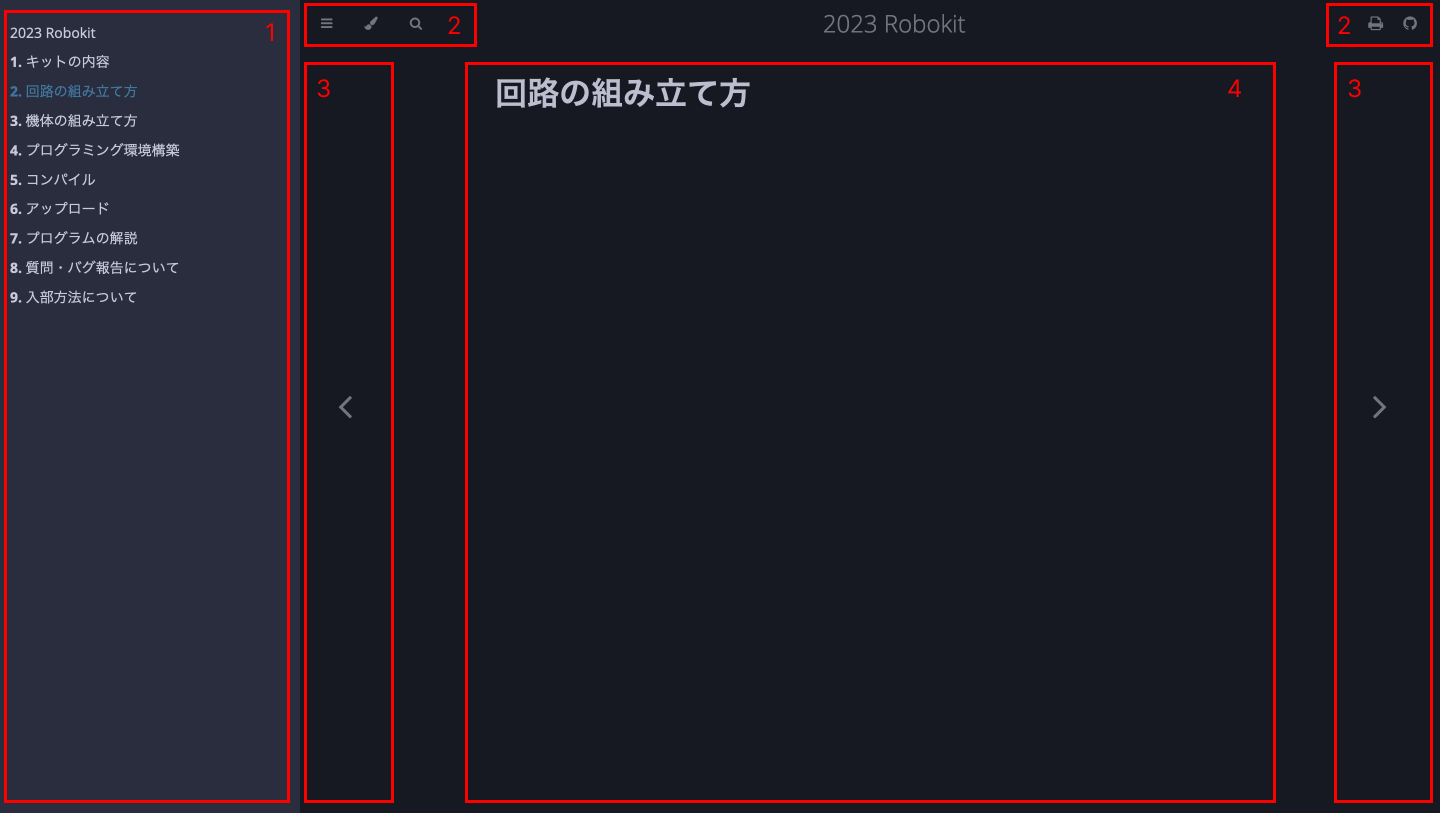
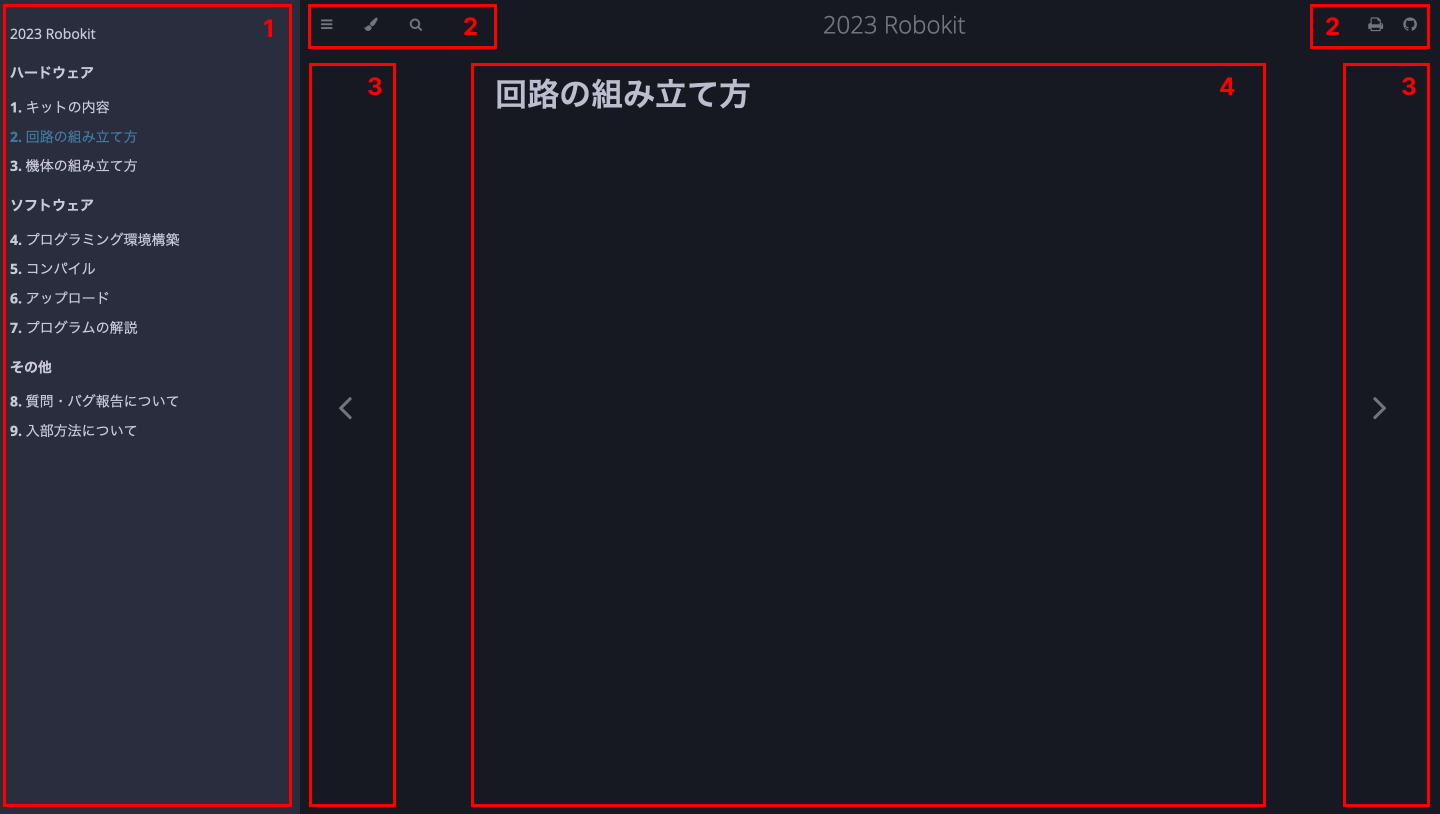
deploy: 9dc91f0afebf8294028ba9710b55e7cff26690c5

Changed region(s): [[0.0, 0.0, 0.875, 1.0], [0.8438, 0.0, 1.0, 1.0], [0.5938, 0.0, 0.625, 0.0308]]

diff --git a/00-title-page.html b/00-title-page.html
@@ -85,7 +85,7 @@
 
         <nav id="sidebar" class="sidebar" aria-label="Table of contents">
             <div class="sidebar-scrollbox">
-                <ol class="chapter"><li class="chapter-item expanded affix "><a href="00-title-page.html" class="active">2023 Robokit</a></li><li class="chapter-item expanded "><a href="01-kit-contents.html"><strong aria-hidden="true">1.</strong> キットの内容</a></li><li class="chapter-item expanded "><a href="02-construct-circuit.html"><strong aria-hidden="true">2.</strong> 回路の組み立て方</a></li><li class="chapter-item expanded "><a href="03-construct-machine.html"><strong aria-hidden="true">3.</strong> 機体の組み立て方</a></li><li class="chapter-item expanded "><a href="04-environment-setup.html"><strong aria-hidden="true">4.</strong> プログラミング環境構築</a></li><li class="chapter-item expanded "><a href="05-compile.html"><strong aria-hidden="true">5.</strong> コンパイル</a></li><li class="chapter-item expanded "><a href="06-upload.html"><strong aria-hidden="true">6.</strong> アップロード</a></li><li class="chapter-item expanded "><a href="07-program-expl.html"><strong aria-hidden="true">7.</strong> プログラムの解説</a></li><li class="chapter-item expanded "><a href="08-contributing.html"><strong aria-hidden="true">8.</strong> 質問・バグ報告について</a></li><li class="chapter-item expanded "><a href="09-joining.html"><strong aria-hidden="true">9.</strong> 入部方法について</a></li></ol>
+                <ol class="chapter"><li class="chapter-item expanded affix "><a href="00-title-page.html" class="active">2023 Robokit</a></li><li class="chapter-item expanded affix "><li class="part-title">ハードウェア</li><li class="chapter-item expanded "><a href="01-kit-contents.html"><strong aria-hidden="true">1.</strong> キットの内容</a></li><li class="chapter-item expanded "><a href="02-construct-circuit.html"><strong aria-hidden="true">2.</strong> 回路の組み立て方</a></li><li class="chapter-item expanded "><a href="03-construct-machine.html"><strong aria-hidden="true">3.</strong> 機体の組み立て方</a></li><li class="chapter-item expanded affix "><li class="part-title">ソフトウェア</li><li class="chapter-item expanded "><a href="04-environment-setup.html"><strong aria-hidden="true">4.</strong> プログラミング環境構築</a></li><li class="chapter-item expanded "><a href="05-compile.html"><strong aria-hidden="true">5.</strong> コンパイル</a></li><li class="chapter-item expanded "><a href="06-upload.html"><strong aria-hidden="true">6.</strong> アップロード</a></li><li class="chapter-item expanded "><a href="07-program-expl.html"><strong aria-hidden="true">7.</strong> プログラムの解説</a></li><li class="chapter-item expanded affix "><li class="part-title">その他</li><li class="chapter-item expanded "><a href="08-contributing.html"><strong aria-hidden="true">8.</strong> 質問・バグ報告について</a></li><li class="chapter-item expanded "><a href="09-joining.html"><strong aria-hidden="true">9.</strong> 入部方法について</a></li></ol>
             </div>
             <div id="sidebar-resize-handle" class="sidebar-resize-handle"></div>
         </nav>

diff --git a/01-kit-contents.html b/01-kit-contents.html
@@ -85,7 +85,7 @@
 
         <nav id="sidebar" class="sidebar" aria-label="Table of contents">
             <div class="sidebar-scrollbox">
-                <ol class="chapter"><li class="chapter-item expanded affix "><a href="00-title-page.html">2023 Robokit</a></li><li class="chapter-item expanded "><a href="01-kit-contents.html" class="active"><strong aria-hidden="true">1.</strong> キットの内容</a></li><li class="chapter-item expanded "><a href="02-construct-circuit.html"><strong aria-hidden="true">2.</strong> 回路の組み立て方</a></li><li class="chapter-item expanded "><a href="03-construct-machine.html"><strong aria-hidden="true">3.</strong> 機体の組み立て方</a></li><li class="chapter-item expanded "><a href="04-environment-setup.html"><strong aria-hidden="true">4.</strong> プログラミング環境構築</a></li><li class="chapter-item expanded "><a href="05-compile.html"><strong aria-hidden="true">5.</strong> コンパイル</a></li><li class="chapter-item expanded "><a href="06-upload.html"><strong aria-hidden="true">6.</strong> アップロード</a></li><li class="chapter-item expanded "><a href="07-program-expl.html"><strong aria-hidden="true">7.</strong> プログラムの解説</a></li><li class="chapter-item expanded "><a href="08-contributing.html"><strong aria-hidden="true">8.</strong> 質問・バグ報告について</a></li><li class="chapter-item expanded "><a href="09-joining.html"><strong aria-hidden="true">9.</strong> 入部方法について</a></li></ol>
+                <ol class="chapter"><li class="chapter-item expanded affix "><a href="00-title-page.html">2023 Robokit</a></li><li class="chapter-item expanded affix "><li class="part-title">ハードウェア</li><li class="chapter-item expanded "><a href="01-kit-contents.html" class="active"><strong aria-hidden="true">1.</strong> キットの内容</a></li><li class="chapter-item expanded "><a href="02-construct-circuit.html"><strong aria-hidden="true">2.</strong> 回路の組み立て方</a></li><li class="chapter-item expanded "><a href="03-construct-machine.html"><strong aria-hidden="true">3.</strong> 機体の組み立て方</a></li><li class="chapter-item expanded affix "><li class="part-title">ソフトウェア</li><li class="chapter-item expanded "><a href="04-environment-setup.html"><strong aria-hidden="true">4.</strong> プログラミング環境構築</a></li><li class="chapter-item expanded "><a href="05-compile.html"><strong aria-hidden="true">5.</strong> コンパイル</a></li><li class="chapter-item expanded "><a href="06-upload.html"><strong aria-hidden="true">6.</strong> アップロード</a></li><li class="chapter-item expanded "><a href="07-program-expl.html"><strong aria-hidden="true">7.</strong> プログラムの解説</a></li><li class="chapter-item expanded affix "><li class="part-title">その他</li><li class="chapter-item expanded "><a href="08-contributing.html"><strong aria-hidden="true">8.</strong> 質問・バグ報告について</a></li><li class="chapter-item expanded "><a href="09-joining.html"><strong aria-hidden="true">9.</strong> 入部方法について</a></li></ol>
             </div>
             <div id="sidebar-resize-handle" class="sidebar-resize-handle"></div>
         </nav>

diff --git a/02-construct-circuit.html b/02-construct-circuit.html
@@ -85,7 +85,7 @@
 
         <nav id="sidebar" class="sidebar" aria-label="Table of contents">
             <div class="sidebar-scrollbox">
-                <ol class="chapter"><li class="chapter-item expanded affix "><a href="00-title-page.html">2023 Robokit</a></li><li class="chapter-item expanded "><a href="01-kit-contents.html"><strong aria-hidden="true">1.</strong> キットの内容</a></li><li class="chapter-item expanded "><a href="02-construct-circuit.html" class="active"><strong aria-hidden="true">2.</strong> 回路の組み立て方</a></li><li class="chapter-item expanded "><a href="03-construct-machine.html"><strong aria-hidden="true">3.</strong> 機体の組み立て方</a></li><li class="chapter-item expanded "><a href="04-environment-setup.html"><strong aria-hidden="true">4.</strong> プログラミング環境構築</a></li><li class="chapter-item expanded "><a href="05-compile.html"><strong aria-hidden="true">5.</strong> コンパイル</a></li><li class="chapter-item expanded "><a href="06-upload.html"><strong aria-hidden="true">6.</strong> アップロード</a></li><li class="chapter-item expanded "><a href="07-program-expl.html"><strong aria-hidden="true">7.</strong> プログラムの解説</a></li><li class="chapter-item expanded "><a href="08-contributing.html"><strong aria-hidden="true">8.</strong> 質問・バグ報告について</a></li><li class="chapter-item expanded "><a href="09-joining.html"><strong aria-hidden="true">9.</strong> 入部方法について</a></li></ol>
+                <ol class="chapter"><li class="chapter-item expanded affix "><a href="00-title-page.html">2023 Robokit</a></li><li class="chapter-item expanded affix "><li class="part-title">ハードウェア</li><li class="chapter-item expanded "><a href="01-kit-contents.html"><strong aria-hidden="true">1.</strong> キットの内容</a></li><li class="chapter-item expanded "><a href="02-construct-circuit.html" class="active"><strong aria-hidden="true">2.</strong> 回路の組み立て方</a></li><li class="chapter-item expanded "><a href="03-construct-machine.html"><strong aria-hidden="true">3.</strong> 機体の組み立て方</a></li><li class="chapter-item expanded affix "><li class="part-title">ソフトウェア</li><li class="chapter-item expanded "><a href="04-environment-setup.html"><strong aria-hidden="true">4.</strong> プログラミング環境構築</a></li><li class="chapter-item expanded "><a href="05-compile.html"><strong aria-hidden="true">5.</strong> コンパイル</a></li><li class="chapter-item expanded "><a href="06-upload.html"><strong aria-hidden="true">6.</strong> アップロード</a></li><li class="chapter-item expanded "><a href="07-program-expl.html"><strong aria-hidden="true">7.</strong> プログラムの解説</a></li><li class="chapter-item expanded affix "><li class="part-title">その他</li><li class="chapter-item expanded "><a href="08-contributing.html"><strong aria-hidden="true">8.</strong> 質問・バグ報告について</a></li><li class="chapter-item expanded "><a href="09-joining.html"><strong aria-hidden="true">9.</strong> 入部方法について</a></li></ol>
             </div>
             <div id="sidebar-resize-handle" class="sidebar-resize-handle"></div>
         </nav>

diff --git a/03-construct-machine.html b/03-construct-machine.html
@@ -85,7 +85,7 @@
 
         <nav id="sidebar" class="sidebar" aria-label="Table of contents">
             <div class="sidebar-scrollbox">
-                <ol class="chapter"><li class="chapter-item expanded affix "><a href="00-title-page.html">2023 Robokit</a></li><li class="chapter-item expanded "><a href="01-kit-contents.html"><strong aria-hidden="true">1.</strong> キットの内容</a></li><li class="chapter-item expanded "><a href="02-construct-circuit.html"><strong aria-hidden="true">2.</strong> 回路の組み立て方</a></li><li class="chapter-item expanded "><a href="03-construct-machine.html" class="active"><strong aria-hidden="true">3.</strong> 機体の組み立て方</a></li><li class="chapter-item expanded "><a href="04-environment-setup.html"><strong aria-hidden="true">4.</strong> プログラミング環境構築</a></li><li class="chapter-item expanded "><a href="05-compile.html"><strong aria-hidden="true">5.</strong> コンパイル</a></li><li class="chapter-item expanded "><a href="06-upload.html"><strong aria-hidden="true">6.</strong> アップロード</a></li><li class="chapter-item expanded "><a href="07-program-expl.html"><strong aria-hidden="true">7.</strong> プログラムの解説</a></li><li class="chapter-item expanded "><a href="08-contributing.html"><strong aria-hidden="true">8.</strong> 質問・バグ報告について</a></li><li class="chapter-item expanded "><a href="09-joining.html"><strong aria-hidden="true">9.</strong> 入部方法について</a></li></ol>
+                <ol class="chapter"><li class="chapter-item expanded affix "><a href="00-title-page.html">2023 Robokit</a></li><li class="chapter-item expanded affix "><li class="part-title">ハードウェア</li><li class="chapter-item expanded "><a href="01-kit-contents.html"><strong aria-hidden="true">1.</strong> キットの内容</a></li><li class="chapter-item expanded "><a href="02-construct-circuit.html"><strong aria-hidden="true">2.</strong> 回路の組み立て方</a></li><li class="chapter-item expanded "><a href="03-construct-machine.html" class="active"><strong aria-hidden="true">3.</strong> 機体の組み立て方</a></li><li class="chapter-item expanded affix "><li class="part-title">ソフトウェア</li><li class="chapter-item expanded "><a href="04-environment-setup.html"><strong aria-hidden="true">4.</strong> プログラミング環境構築</a></li><li class="chapter-item expanded "><a href="05-compile.html"><strong aria-hidden="true">5.</strong> コンパイル</a></li><li class="chapter-item expanded "><a href="06-upload.html"><strong aria-hidden="true">6.</strong> アップロード</a></li><li class="chapter-item expanded "><a href="07-program-expl.html"><strong aria-hidden="true">7.</strong> プログラムの解説</a></li><li class="chapter-item expanded affix "><li class="part-title">その他</li><li class="chapter-item expanded "><a href="08-contributing.html"><strong aria-hidden="true">8.</strong> 質問・バグ報告について</a></li><li class="chapter-item expanded "><a href="09-joining.html"><strong aria-hidden="true">9.</strong> 入部方法について</a></li></ol>
             </div>
             <div id="sidebar-resize-handle" class="sidebar-resize-handle"></div>
         </nav>

diff --git a/04-environment-setup.html b/04-environment-setup.html
@@ -85,7 +85,7 @@
 
         <nav id="sidebar" class="sidebar" aria-label="Table of contents">
             <div class="sidebar-scrollbox">
-                <ol class="chapter"><li class="chapter-item expanded affix "><a href="00-title-page.html">2023 Robokit</a></li><li class="chapter-item expanded "><a href="01-kit-contents.html"><strong aria-hidden="true">1.</strong> キットの内容</a></li><li class="chapter-item expanded "><a href="02-construct-circuit.html"><strong aria-hidden="true">2.</strong> 回路の組み立て方</a></li><li class="chapter-item expanded "><a href="03-construct-machine.html"><strong aria-hidden="true">3.</strong> 機体の組み立て方</a></li><li class="chapter-item expanded "><a href="04-environment-setup.html" class="active"><strong aria-hidden="true">4.</strong> プログラミング環境構築</a></li><li class="chapter-item expanded "><a href="05-compile.html"><strong aria-hidden="true">5.</strong> コンパイル</a></li><li class="chapter-item expanded "><a href="06-upload.html"><strong aria-hidden="true">6.</strong> アップロード</a></li><li class="chapter-item expanded "><a href="07-program-expl.html"><strong aria-hidden="true">7.</strong> プログラムの解説</a></li><li class="chapter-item expanded "><a href="08-contributing.html"><strong aria-hidden="true">8.</strong> 質問・バグ報告について</a></li><li class="chapter-item expanded "><a href="09-joining.html"><strong aria-hidden="true">9.</strong> 入部方法について</a></li></ol>
+                <ol class="chapter"><li class="chapter-item expanded affix "><a href="00-title-page.html">2023 Robokit</a></li><li class="chapter-item expanded affix "><li class="part-title">ハードウェア</li><li class="chapter-item expanded "><a href="01-kit-contents.html"><strong aria-hidden="true">1.</strong> キットの内容</a></li><li class="chapter-item expanded "><a href="02-construct-circuit.html"><strong aria-hidden="true">2.</strong> 回路の組み立て方</a></li><li class="chapter-item expanded "><a href="03-construct-machine.html"><strong aria-hidden="true">3.</strong> 機体の組み立て方</a></li><li class="chapter-item expanded affix "><li class="part-title">ソフトウェア</li><li class="chapter-item expanded "><a href="04-environment-setup.html" class="active"><strong aria-hidden="true">4.</strong> プログラミング環境構築</a></li><li class="chapter-item expanded "><a href="05-compile.html"><strong aria-hidden="true">5.</strong> コンパイル</a></li><li class="chapter-item expanded "><a href="06-upload.html"><strong aria-hidden="true">6.</strong> アップロード</a></li><li class="chapter-item expanded "><a href="07-program-expl.html"><strong aria-hidden="true">7.</strong> プログラムの解説</a></li><li class="chapter-item expanded affix "><li class="part-title">その他</li><li class="chapter-item expanded "><a href="08-contributing.html"><strong aria-hidden="true">8.</strong> 質問・バグ報告について</a></li><li class="chapter-item expanded "><a href="09-joining.html"><strong aria-hidden="true">9.</strong> 入部方法について</a></li></ol>
             </div>
             <div id="sidebar-resize-handle" class="sidebar-resize-handle"></div>
         </nav>

diff --git a/05-compile.html b/05-compile.html
@@ -85,7 +85,7 @@
 
         <nav id="sidebar" class="sidebar" aria-label="Table of contents">
             <div class="sidebar-scrollbox">
-                <ol class="chapter"><li class="chapter-item expanded affix "><a href="00-title-page.html">2023 Robokit</a></li><li class="chapter-item expanded "><a href="01-kit-contents.html"><strong aria-hidden="true">1.</strong> キットの内容</a></li><li class="chapter-item expanded "><a href="02-construct-circuit.html"><strong aria-hidden="true">2.</strong> 回路の組み立て方</a></li><li class="chapter-item expanded "><a href="03-construct-machine.html"><strong aria-hidden="true">3.</strong> 機体の組み立て方</a></li><li class="chapter-item expanded "><a href="04-environment-setup.html"><strong aria-hidden="true">4.</strong> プログラミング環境構築</a></li><li class="chapter-item expanded "><a href="05-compile.html" class="active"><strong aria-hidden="true">5.</strong> コンパイル</a></li><li class="chapter-item expanded "><a href="06-upload.html"><strong aria-hidden="true">6.</strong> アップロード</a></li><li class="chapter-item expanded "><a href="07-program-expl.html"><strong aria-hidden="true">7.</strong> プログラムの解説</a></li><li class="chapter-item expanded "><a href="08-contributing.html"><strong aria-hidden="true">8.</strong> 質問・バグ報告について</a></li><li class="chapter-item expanded "><a href="09-joining.html"><strong aria-hidden="true">9.</strong> 入部方法について</a></li></ol>
+                <ol class="chapter"><li class="chapter-item expanded affix "><a href="00-title-page.html">2023 Robokit</a></li><li class="chapter-item expanded affix "><li class="part-title">ハードウェア</li><li class="chapter-item expanded "><a href="01-kit-contents.html"><strong aria-hidden="true">1.</strong> キットの内容</a></li><li class="chapter-item expanded "><a href="02-construct-circuit.html"><strong aria-hidden="true">2.</strong> 回路の組み立て方</a></li><li class="chapter-item expanded "><a href="03-construct-machine.html"><strong aria-hidden="true">3.</strong> 機体の組み立て方</a></li><li class="chapter-item expanded affix "><li class="part-title">ソフトウェア</li><li class="chapter-item expanded "><a href="04-environment-setup.html"><strong aria-hidden="true">4.</strong> プログラミング環境構築</a></li><li class="chapter-item expanded "><a href="05-compile.html" class="active"><strong aria-hidden="true">5.</strong> コンパイル</a></li><li class="chapter-item expanded "><a href="06-upload.html"><strong aria-hidden="true">6.</strong> アップロード</a></li><li class="chapter-item expanded "><a href="07-program-expl.html"><strong aria-hidden="true">7.</strong> プログラムの解説</a></li><li class="chapter-item expanded affix "><li class="part-title">その他</li><li class="chapter-item expanded "><a href="08-contributing.html"><strong aria-hidden="true">8.</strong> 質問・バグ報告について</a></li><li class="chapter-item expanded "><a href="09-joining.html"><strong aria-hidden="true">9.</strong> 入部方法について</a></li></ol>
             </div>
             <div id="sidebar-resize-handle" class="sidebar-resize-handle"></div>
         </nav>

diff --git a/06-upload.html b/06-upload.html
@@ -85,7 +85,7 @@
 
         <nav id="sidebar" class="sidebar" aria-label="Table of contents">
             <div class="sidebar-scrollbox">
-                <ol class="chapter"><li class="chapter-item expanded affix "><a href="00-title-page.html">2023 Robokit</a></li><li class="chapter-item expanded "><a href="01-kit-contents.html"><strong aria-hidden="true">1.</strong> キットの内容</a></li><li class="chapter-item expanded "><a href="02-construct-circuit.html"><strong aria-hidden="true">2.</strong> 回路の組み立て方</a></li><li class="chapter-item expanded "><a href="03-construct-machine.html"><strong aria-hidden="true">3.</strong> 機体の組み立て方</a></li><li class="chapter-item expanded "><a href="04-environment-setup.html"><strong aria-hidden="true">4.</strong> プログラミング環境構築</a></li><li class="chapter-item expanded "><a href="05-compile.html"><strong aria-hidden="true">5.</strong> コンパイル</a></li><li class="chapter-item expanded "><a href="06-upload.html" class="active"><strong aria-hidden="true">6.</strong> アップロード</a></li><li class="chapter-item expanded "><a href="07-program-expl.html"><strong aria-hidden="true">7.</strong> プログラムの解説</a></li><li class="chapter-item expanded "><a href="08-contributing.html"><strong aria-hidden="true">8.</strong> 質問・バグ報告について</a></li><li class="chapter-item expanded "><a href="09-joining.html"><strong aria-hidden="true">9.</strong> 入部方法について</a></li></ol>
+                <ol class="chapter"><li class="chapter-item expanded affix "><a href="00-title-page.html">2023 Robokit</a></li><li class="chapter-item expanded affix "><li class="part-title">ハードウェア</li><li class="chapter-item expanded "><a href="01-kit-contents.html"><strong aria-hidden="true">1.</strong> キットの内容</a></li><li class="chapter-item expanded "><a href="02-construct-circuit.html"><strong aria-hidden="true">2.</strong> 回路の組み立て方</a></li><li class="chapter-item expanded "><a href="03-construct-machine.html"><strong aria-hidden="true">3.</strong> 機体の組み立て方</a></li><li class="chapter-item expanded affix "><li class="part-title">ソフトウェア</li><li class="chapter-item expanded "><a href="04-environment-setup.html"><strong aria-hidden="true">4.</strong> プログラミング環境構築</a></li><li class="chapter-item expanded "><a href="05-compile.html"><strong aria-hidden="true">5.</strong> コンパイル</a></li><li class="chapter-item expanded "><a href="06-upload.html" class="active"><strong aria-hidden="true">6.</strong> アップロード</a></li><li class="chapter-item expanded "><a href="07-program-expl.html"><strong aria-hidden="true">7.</strong> プログラムの解説</a></li><li class="chapter-item expanded affix "><li class="part-title">その他</li><li class="chapter-item expanded "><a href="08-contributing.html"><strong aria-hidden="true">8.</strong> 質問・バグ報告について</a></li><li class="chapter-item expanded "><a href="09-joining.html"><strong aria-hidden="true">9.</strong> 入部方法について</a></li></ol>
             </div>
             <div id="sidebar-resize-handle" class="sidebar-resize-handle"></div>
         </nav>

diff --git a/07-program-expl.html b/07-program-expl.html
@@ -85,7 +85,7 @@
 
         <nav id="sidebar" class="sidebar" aria-label="Table of contents">
             <div class="sidebar-scrollbox">
-                <ol class="chapter"><li class="chapter-item expanded affix "><a href="00-title-page.html">2023 Robokit</a></li><li class="chapter-item expanded "><a href="01-kit-contents.html"><strong aria-hidden="true">1.</strong> キットの内容</a></li><li class="chapter-item expanded "><a href="02-construct-circuit.html"><strong aria-hidden="true">2.</strong> 回路の組み立て方</a></li><li class="chapter-item expanded "><a href="03-construct-machine.html"><strong aria-hidden="true">3.</strong> 機体の組み立て方</a></li><li class="chapter-item expanded "><a href="04-environment-setup.html"><strong aria-hidden="true">4.</strong> プログラミング環境構築</a></li><li class="chapter-item expanded "><a href="05-compile.html"><strong aria-hidden="true">5.</strong> コンパイル</a></li><li class="chapter-item expanded "><a href="06-upload.html"><strong aria-hidden="true">6.</strong> アップロード</a></li><li class="chapter-item expanded "><a href="07-program-expl.html" class="active"><strong aria-hidden="true">7.</strong> プログラムの解説</a></li><li class="chapter-item expanded "><a href="08-contributing.html"><strong aria-hidden="true">8.</strong> 質問・バグ報告について</a></li><li class="chapter-item expanded "><a href="09-joining.html"><strong aria-hidden="true">9.</strong> 入部方法について</a></li></ol>
+                <ol class="chapter"><li class="chapter-item expanded affix "><a href="00-title-page.html">2023 Robokit</a></li><li class="chapter-item expanded affix "><li class="part-title">ハードウェア</li><li class="chapter-item expanded "><a href="01-kit-contents.html"><strong aria-hidden="true">1.</strong> キットの内容</a></li><li class="chapter-item expanded "><a href="02-construct-circuit.html"><strong aria-hidden="true">2.</strong> 回路の組み立て方</a></li><li class="chapter-item expanded "><a href="03-construct-machine.html"><strong aria-hidden="true">3.</strong> 機体の組み立て方</a></li><li class="chapter-item expanded affix "><li class="part-title">ソフトウェア</li><li class="chapter-item expanded "><a href="04-environment-setup.html"><strong aria-hidden="true">4.</strong> プログラミング環境構築</a></li><li class="chapter-item expanded "><a href="05-compile.html"><strong aria-hidden="true">5.</strong> コンパイル</a></li><li class="chapter-item expanded "><a href="06-upload.html"><strong aria-hidden="true">6.</strong> アップロード</a></li><li class="chapter-item expanded "><a href="07-program-expl.html" class="active"><strong aria-hidden="true">7.</strong> プログラムの解説</a></li><li class="chapter-item expanded affix "><li class="part-title">その他</li><li class="chapter-item expanded "><a href="08-contributing.html"><strong aria-hidden="true">8.</strong> 質問・バグ報告について</a></li><li class="chapter-item expanded "><a href="09-joining.html"><strong aria-hidden="true">9.</strong> 入部方法について</a></li></ol>
             </div>
             <div id="sidebar-resize-handle" class="sidebar-resize-handle"></div>
         </nav>

diff --git a/08-contributing.html b/08-contributing.html
@@ -85,7 +85,7 @@
 
         <nav id="sidebar" class="sidebar" aria-label="Table of contents">
             <div class="sidebar-scrollbox">
-                <ol class="chapter"><li class="chapter-item expanded affix "><a href="00-title-page.html">2023 Robokit</a></li><li class="chapter-item expanded "><a href="01-kit-contents.html"><strong aria-hidden="true">1.</strong> キットの内容</a></li><li class="chapter-item expanded "><a href="02-construct-circuit.html"><strong aria-hidden="true">2.</strong> 回路の組み立て方</a></li><li class="chapter-item expanded "><a href="03-construct-machine.html"><strong aria-hidden="true">3.</strong> 機体の組み立て方</a></li><li class="chapter-item expanded "><a href="04-environment-setup.html"><strong aria-hidden="true">4.</strong> プログラミング環境構築</a></li><li class="chapter-item expanded "><a href="05-compile.html"><strong aria-hidden="true">5.</strong> コンパイル</a></li><li class="chapter-item expanded "><a href="06-upload.html"><strong aria-hidden="true">6.</strong> アップロード</a></li><li class="chapter-item expanded "><a href="07-program-expl.html"><strong aria-hidden="true">7.</strong> プログラムの解説</a></li><li class="chapter-item expanded "><a href="08-contributing.html" class="active"><strong aria-hidden="true">8.</strong> 質問・バグ報告について</a></li><li class="chapter-item expanded "><a href="09-joining.html"><strong aria-hidden="true">9.</strong> 入部方法について</a></li></ol>
+                <ol class="chapter"><li class="chapter-item expanded affix "><a href="00-title-page.html">2023 Robokit</a></li><li class="chapter-item expanded affix "><li class="part-title">ハードウェア</li><li class="chapter-item expanded "><a href="01-kit-contents.html"><strong aria-hidden="true">1.</strong> キットの内容</a></li><li class="chapter-item expanded "><a href="02-construct-circuit.html"><strong aria-hidden="true">2.</strong> 回路の組み立て方</a></li><li class="chapter-item expanded "><a href="03-construct-machine.html"><strong aria-hidden="true">3.</strong> 機体の組み立て方</a></li><li class="chapter-item expanded affix "><li class="part-title">ソフトウェア</li><li class="chapter-item expanded "><a href="04-environment-setup.html"><strong aria-hidden="true">4.</strong> プログラミング環境構築</a></li><li class="chapter-item expanded "><a href="05-compile.html"><strong aria-hidden="true">5.</strong> コンパイル</a></li><li class="chapter-item expanded "><a href="06-upload.html"><strong aria-hidden="true">6.</strong> アップロード</a></li><li class="chapter-item expanded "><a href="07-program-expl.html"><strong aria-hidden="true">7.</strong> プログラムの解説</a></li><li class="chapter-item expanded affix "><li class="part-title">その他</li><li class="chapter-item expanded "><a href="08-contributing.html" class="active"><strong aria-hidden="true">8.</strong> 質問・バグ報告について</a></li><li class="chapter-item expanded "><a href="09-joining.html"><strong aria-hidden="true">9.</strong> 入部方法について</a></li></ol>
             </div>
             <div id="sidebar-resize-handle" class="sidebar-resize-handle"></div>
         </nav>

diff --git a/09-joining.html b/09-joining.html
@@ -85,7 +85,7 @@
 
         <nav id="sidebar" class="sidebar" aria-label="Table of contents">
             <div class="sidebar-scrollbox">
-                <ol class="chapter"><li class="chapter-item expanded affix "><a href="00-title-page.html">2023 Robokit</a></li><li class="chapter-item expanded "><a href="01-kit-contents.html"><strong aria-hidden="true">1.</strong> キットの内容</a></li><li class="chapter-item expanded "><a href="02-construct-circuit.html"><strong aria-hidden="true">2.</strong> 回路の組み立て方</a></li><li class="chapter-item expanded "><a href="03-construct-machine.html"><strong aria-hidden="true">3.</strong> 機体の組み立て方</a></li><li class="chapter-item expanded "><a href="04-environment-setup.html"><strong aria-hidden="true">4.</strong> プログラミング環境構築</a></li><li class="chapter-item expanded "><a href="05-compile.html"><strong aria-hidden="true">5.</strong> コンパイル</a></li><li class="chapter-item expanded "><a href="06-upload.html"><strong aria-hidden="true">6.</strong> アップロード</a></li><li class="chapter-item expanded "><a href="07-program-expl.html"><strong aria-hidden="true">7.</strong> プログラムの解説</a></li><li class="chapter-item expanded "><a href="08-contributing.html"><strong aria-hidden="true">8.</strong> 質問・バグ報告について</a></li><li class="chapter-item expanded "><a href="09-joining.html" class="active"><strong aria-hidden="true">9.</strong> 入部方法について</a></li></ol>
+                <ol class="chapter"><li class="chapter-item expanded affix "><a href="00-title-page.html">2023 Robokit</a></li><li class="chapter-item expanded affix "><li class="part-title">ハードウェア</li><li class="chapter-item expanded "><a href="01-kit-contents.html"><strong aria-hidden="true">1.</strong> キットの内容</a></li><li class="chapter-item expanded "><a href="02-construct-circuit.html"><strong aria-hidden="true">2.</strong> 回路の組み立て方</a></li><li class="chapter-item expanded "><a href="03-construct-machine.html"><strong aria-hidden="true">3.</strong> 機体の組み立て方</a></li><li class="chapter-item expanded affix "><li class="part-title">ソフトウェア</li><li class="chapter-item expanded "><a href="04-environment-setup.html"><strong aria-hidden="true">4.</strong> プログラミング環境構築</a></li><li class="chapter-item expanded "><a href="05-compile.html"><strong aria-hidden="true">5.</strong> コンパイル</a></li><li class="chapter-item expanded "><a href="06-upload.html"><strong aria-hidden="true">6.</strong> アップロード</a></li><li class="chapter-item expanded "><a href="07-program-expl.html"><strong aria-hidden="true">7.</strong> プログラムの解説</a></li><li class="chapter-item expanded affix "><li class="part-title">その他</li><li class="chapter-item expanded "><a href="08-contributing.html"><strong aria-hidden="true">8.</strong> 質問・バグ報告について</a></li><li class="chapter-item expanded "><a href="09-joining.html" class="active"><strong aria-hidden="true">9.</strong> 入部方法について</a></li></ol>
             </div>
             <div id="sidebar-resize-handle" class="sidebar-resize-handle"></div>
         </nav>

diff --git a/index.html b/index.html
@@ -85,7 +85,7 @@
 
         <nav id="sidebar" class="sidebar" aria-label="Table of contents">
             <div class="sidebar-scrollbox">
-                <ol class="chapter"><li class="chapter-item expanded affix "><a href="00-title-page.html" class="active">2023 Robokit</a></li><li class="chapter-item expanded "><a href="01-kit-contents.html"><strong aria-hidden="true">1.</strong> キットの内容</a></li><li class="chapter-item expanded "><a href="02-construct-circuit.html"><strong aria-hidden="true">2.</strong> 回路の組み立て方</a></li><li class="chapter-item expanded "><a href="03-construct-machine.html"><strong aria-hidden="true">3.</strong> 機体の組み立て方</a></li><li class="chapter-item expanded "><a href="04-environment-setup.html"><strong aria-hidden="true">4.</strong> プログラミング環境構築</a></li><li class="chapter-item expanded "><a href="05-compile.html"><strong aria-hidden="true">5.</strong> コンパイル</a></li><li class="chapter-item expanded "><a href="06-upload.html"><strong aria-hidden="true">6.</strong> アップロード</a></li><li class="chapter-item expanded "><a href="07-program-expl.html"><strong aria-hidden="true">7.</strong> プログラムの解説</a></li><li class="chapter-item expanded "><a href="08-contributing.html"><strong aria-hidden="true">8.</strong> 質問・バグ報告について</a></li><li class="chapter-item expanded "><a href="09-joining.html"><strong aria-hidden="true">9.</strong> 入部方法について</a></li></ol>
+                <ol class="chapter"><li class="chapter-item expanded affix "><a href="00-title-page.html" class="active">2023 Robokit</a></li><li class="chapter-item expanded affix "><li class="part-title">ハードウェア</li><li class="chapter-item expanded "><a href="01-kit-contents.html"><strong aria-hidden="true">1.</strong> キットの内容</a></li><li class="chapter-item expanded "><a href="02-construct-circuit.html"><strong aria-hidden="true">2.</strong> 回路の組み立て方</a></li><li class="chapter-item expanded "><a href="03-construct-machine.html"><strong aria-hidden="true">3.</strong> 機体の組み立て方</a></li><li class="chapter-item expanded affix "><li class="part-title">ソフトウェア</li><li class="chapter-item expanded "><a href="04-environment-setup.html"><strong aria-hidden="true">4.</strong> プログラミング環境構築</a></li><li class="chapter-item expanded "><a href="05-compile.html"><strong aria-hidden="true">5.</strong> コンパイル</a></li><li class="chapter-item expanded "><a href="06-upload.html"><strong aria-hidden="true">6.</strong> アップロード</a></li><li class="chapter-item expanded "><a href="07-program-expl.html"><strong aria-hidden="true">7.</strong> プログラムの解説</a></li><li class="chapter-item expanded affix "><li class="part-title">その他</li><li class="chapter-item expanded "><a href="08-contributing.html"><strong aria-hidden="true">8.</strong> 質問・バグ報告について</a></li><li class="chapter-item expanded "><a href="09-joining.html"><strong aria-hidden="true">9.</strong> 入部方法について</a></li></ol>
             </div>
             <div id="sidebar-resize-handle" class="sidebar-resize-handle"></div>
         </nav>

diff --git a/404.html b/404.html
@@ -86,7 +86,7 @@
 
         <nav id="sidebar" class="sidebar" aria-label="Table of contents">
             <div class="sidebar-scrollbox">
-                <ol class="chapter"><li class="chapter-item expanded affix "><a href="00-title-page.html">2023 Robokit</a></li><li class="chapter-item expanded "><a href="01-kit-contents.html"><strong aria-hidden="true">1.</strong> キットの内容</a></li><li class="chapter-item expanded "><a href="02-construct-circuit.html"><strong aria-hidden="true">2.</strong> 回路の組み立て方</a></li><li class="chapter-item expanded "><a href="03-construct-machine.html"><strong aria-hidden="true">3.</strong> 機体の組み立て方</a></li><li class="chapter-item expanded "><a href="04-environment-setup.html"><strong aria-hidden="true">4.</strong> プログラミング環境構築</a></li><li class="chapter-item expanded "><a href="05-compile.html"><strong aria-hidden="true">5.</strong> コンパイル</a></li><li class="chapter-item expanded "><a href="06-upload.html"><strong aria-hidden="true">6.</strong> アップロード</a></li><li class="chapter-item expanded "><a href="07-program-expl.html"><strong aria-hidden="true">7.</strong> プログラムの解説</a></li><li class="chapter-item expanded "><a href="08-contributing.html"><strong aria-hidden="true">8.</strong> 質問・バグ報告について</a></li><li class="chapter-item expanded "><a href="09-joining.html"><strong aria-hidden="true">9.</strong> 入部方法について</a></li></ol>
+                <ol class="chapter"><li class="chapter-item expanded affix "><a href="00-title-page.html">2023 Robokit</a></li><li class="chapter-item expanded affix "><li class="part-title">ハードウェア</li><li class="chapter-item expanded "><a href="01-kit-contents.html"><strong aria-hidden="true">1.</strong> キットの内容</a></li><li class="chapter-item expanded "><a href="02-construct-circuit.html"><strong aria-hidden="true">2.</strong> 回路の組み立て方</a></li><li class="chapter-item expanded "><a href="03-construct-machine.html"><strong aria-hidden="true">3.</strong> 機体の組み立て方</a></li><li class="chapter-item expanded affix "><li class="part-title">ソフトウェア</li><li class="chapter-item expanded "><a href="04-environment-setup.html"><strong aria-hidden="true">4.</strong> プログラミング環境構築</a></li><li class="chapter-item expanded "><a href="05-compile.html"><strong aria-hidden="true">5.</strong> コンパイル</a></li><li class="chapter-item expanded "><a href="06-upload.html"><strong aria-hidden="true">6.</strong> アップロード</a></li><li class="chapter-item expanded "><a href="07-program-expl.html"><strong aria-hidden="true">7.</strong> プログラムの解説</a></li><li class="chapter-item expanded affix "><li class="part-title">その他</li><li class="chapter-item expanded "><a href="08-contributing.html"><strong aria-hidden="true">8.</strong> 質問・バグ報告について</a></li><li class="chapter-item expanded "><a href="09-joining.html"><strong aria-hidden="true">9.</strong> 入部方法について</a></li></ol>
             </div>
             <div id="sidebar-resize-handle" class="sidebar-resize-handle"></div>
         </nav>
